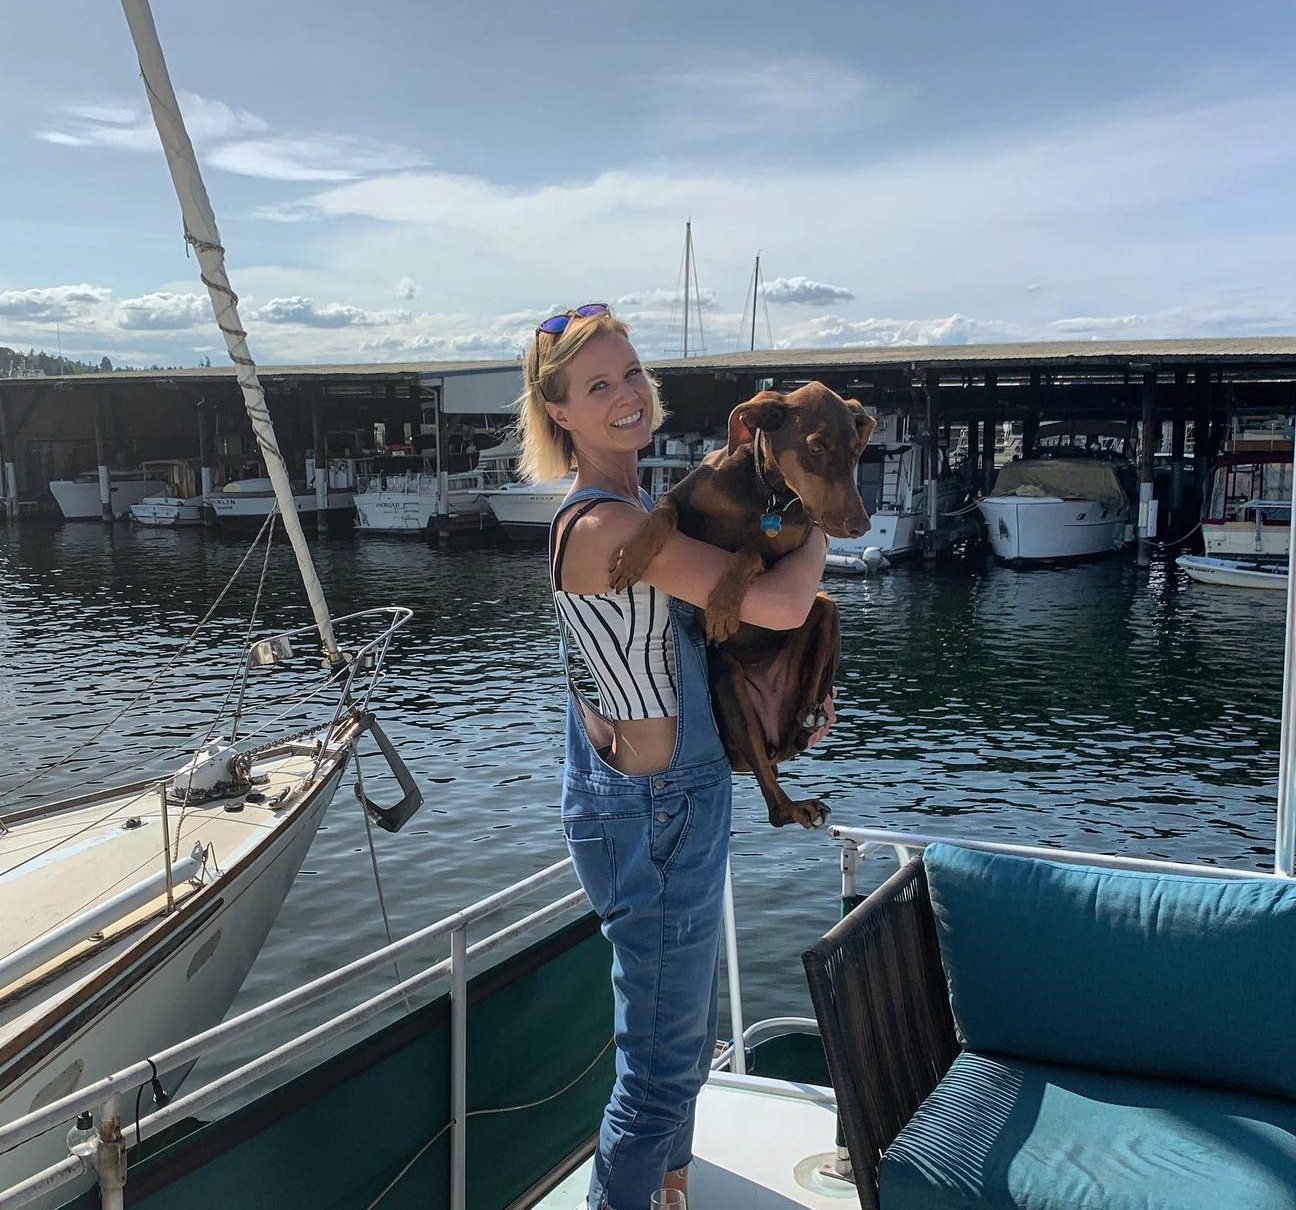
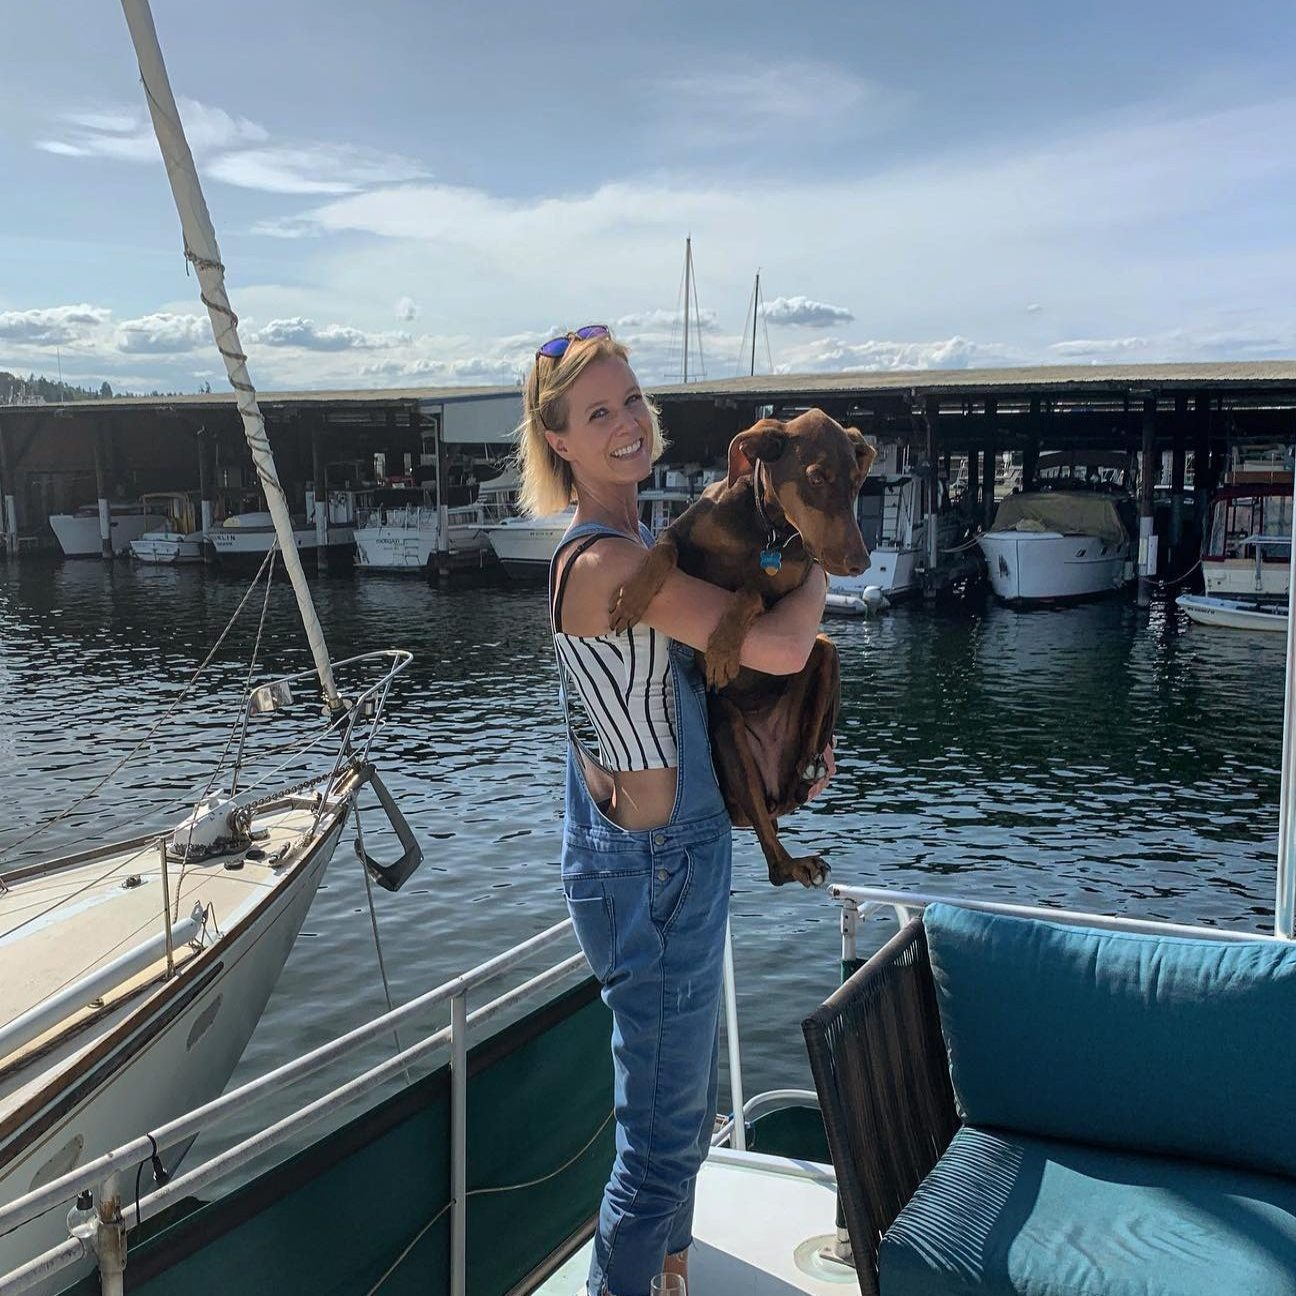
carousel working

diff --git a/src/pages/About.js b/src/pages/About.js
@@ -5,7 +5,11 @@ import "./style.css"
 import trishboat from "../components/Carousel/trishboat.jpg";
 import trish1 from "../components/Carousel/trish1.jpg";
 import trish3 from "../components/Carousel/trish3.jpg";
+import kite from "../components/Carousel/kite.jpg";
+import maple from "../components/Carousel/maple.jpg";
+import sky from "../components/Carousel/sky.jpg";
 import "./About.css"
+import { Carousel } from "react-bootstrap"
 
 const About = () => {
   return (
@@ -17,11 +21,57 @@ const About = () => {
           </div>
         </div>
       </div>
-      <div className="row images">
+      <div className="bg carouselPad">
+      <Carousel className="carousel">
+  <Carousel.Item>
+    <img
+      className="d-block w-100 rounded"
+      src={trish1}
+      alt="Whoops!"
+    />
+  </Carousel.Item>
+  <Carousel.Item>
+    <img
+      className="d-block w-100 rounded"
+      src={trishboat}
+      alt="Whoops!"
+    />
+  </Carousel.Item>
+  <Carousel.Item>
+    <img
+      className="d-block w-100 rounded"
+      src={trish3}
+      alt="Whoops!"
+    />
+  </Carousel.Item>
+  <Carousel.Item>
+    <img
+      className="d-block w-100 rounded"
+      src={maple}
+      alt="Whoops!"
+    />
+  </Carousel.Item>
+  <Carousel.Item>
+    <img
+      className="d-block w-100 rounded"
+      src={sky}
+      alt="Whoops!"
+    />
+  </Carousel.Item>
+  <Carousel.Item>
+    <img
+      className="d-block w-100 rounded"
+      src={kite}
+      alt="Whoops!"
+    />
+  </Carousel.Item>
+</Carousel>
+      </div>
+      {/* <div className="row images">
       <img className="img rounded" src={trishboat} alt="whoops" />
       <img className="img rounded" src={trish1} alt="whoops" />
       <img className="img rounded" src={trish3} alt="whoops" />
-      </div>
+      </div> */}
       <div className=" background rounded about">
 
         <div className="row">

diff --git a/src/components/Carousel/index.js b/src/components/Carousel/index.js
@@ -1,0 +1,38 @@
+import React from "react";
+import { Carousel } from 'react-bootstrap'
+import trish1 from "./trish1.jpg"
+import trish3 from "./trish3.jpg"
+import trishboat from "./trishboat.jpg"
+
+export function Carousel(){
+    return(
+        <>
+<Carousel>
+  <Carousel.Item>
+    <img
+      className="d-block w-100"
+      src={trish1}
+      alt="Whoops!"
+    />
+  </Carousel.Item>
+  <Carousel.Item>
+    <img
+      className="d-block w-100"
+      src={trishboat}
+      alt="Whoops!"
+    />
+  </Carousel.Item>
+  <Carousel.Item>
+    <img
+      className="d-block w-100"
+      src={trish3}
+      alt="Whoops!"
+    />
+  </Carousel.Item>
+</Carousel>
+</>
+    )
+}
+
+export default Carousel;
+

diff --git a/src/pages/About.css b/src/pages/About.css
@@ -23,3 +23,12 @@
     display:flex;
     justify-content:center;
 }
+
+.carousel {
+    width:600px;
+    height:600px;
+}
+
+.carouselPad {
+    padding-bottom:2rem;
+}
